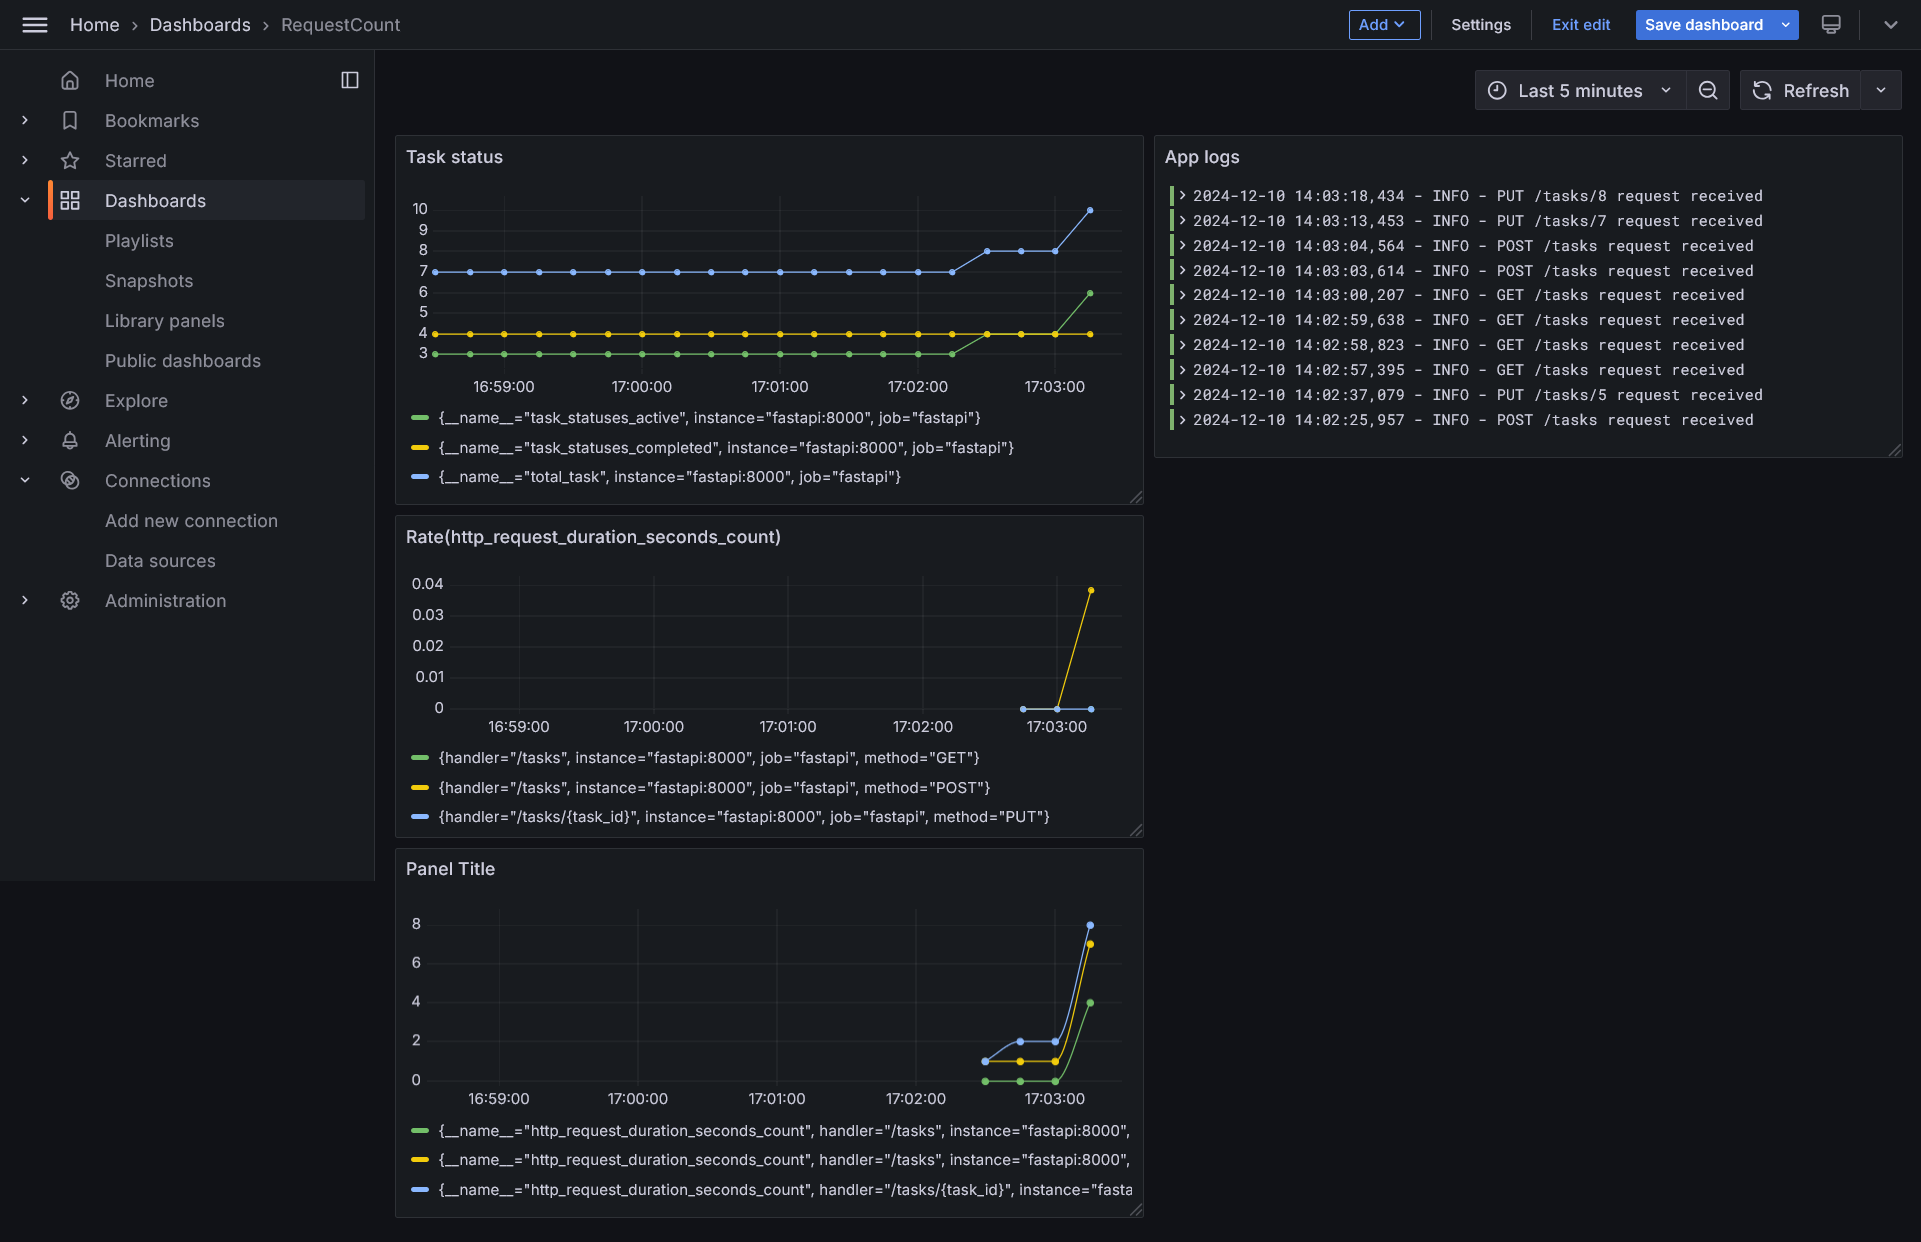
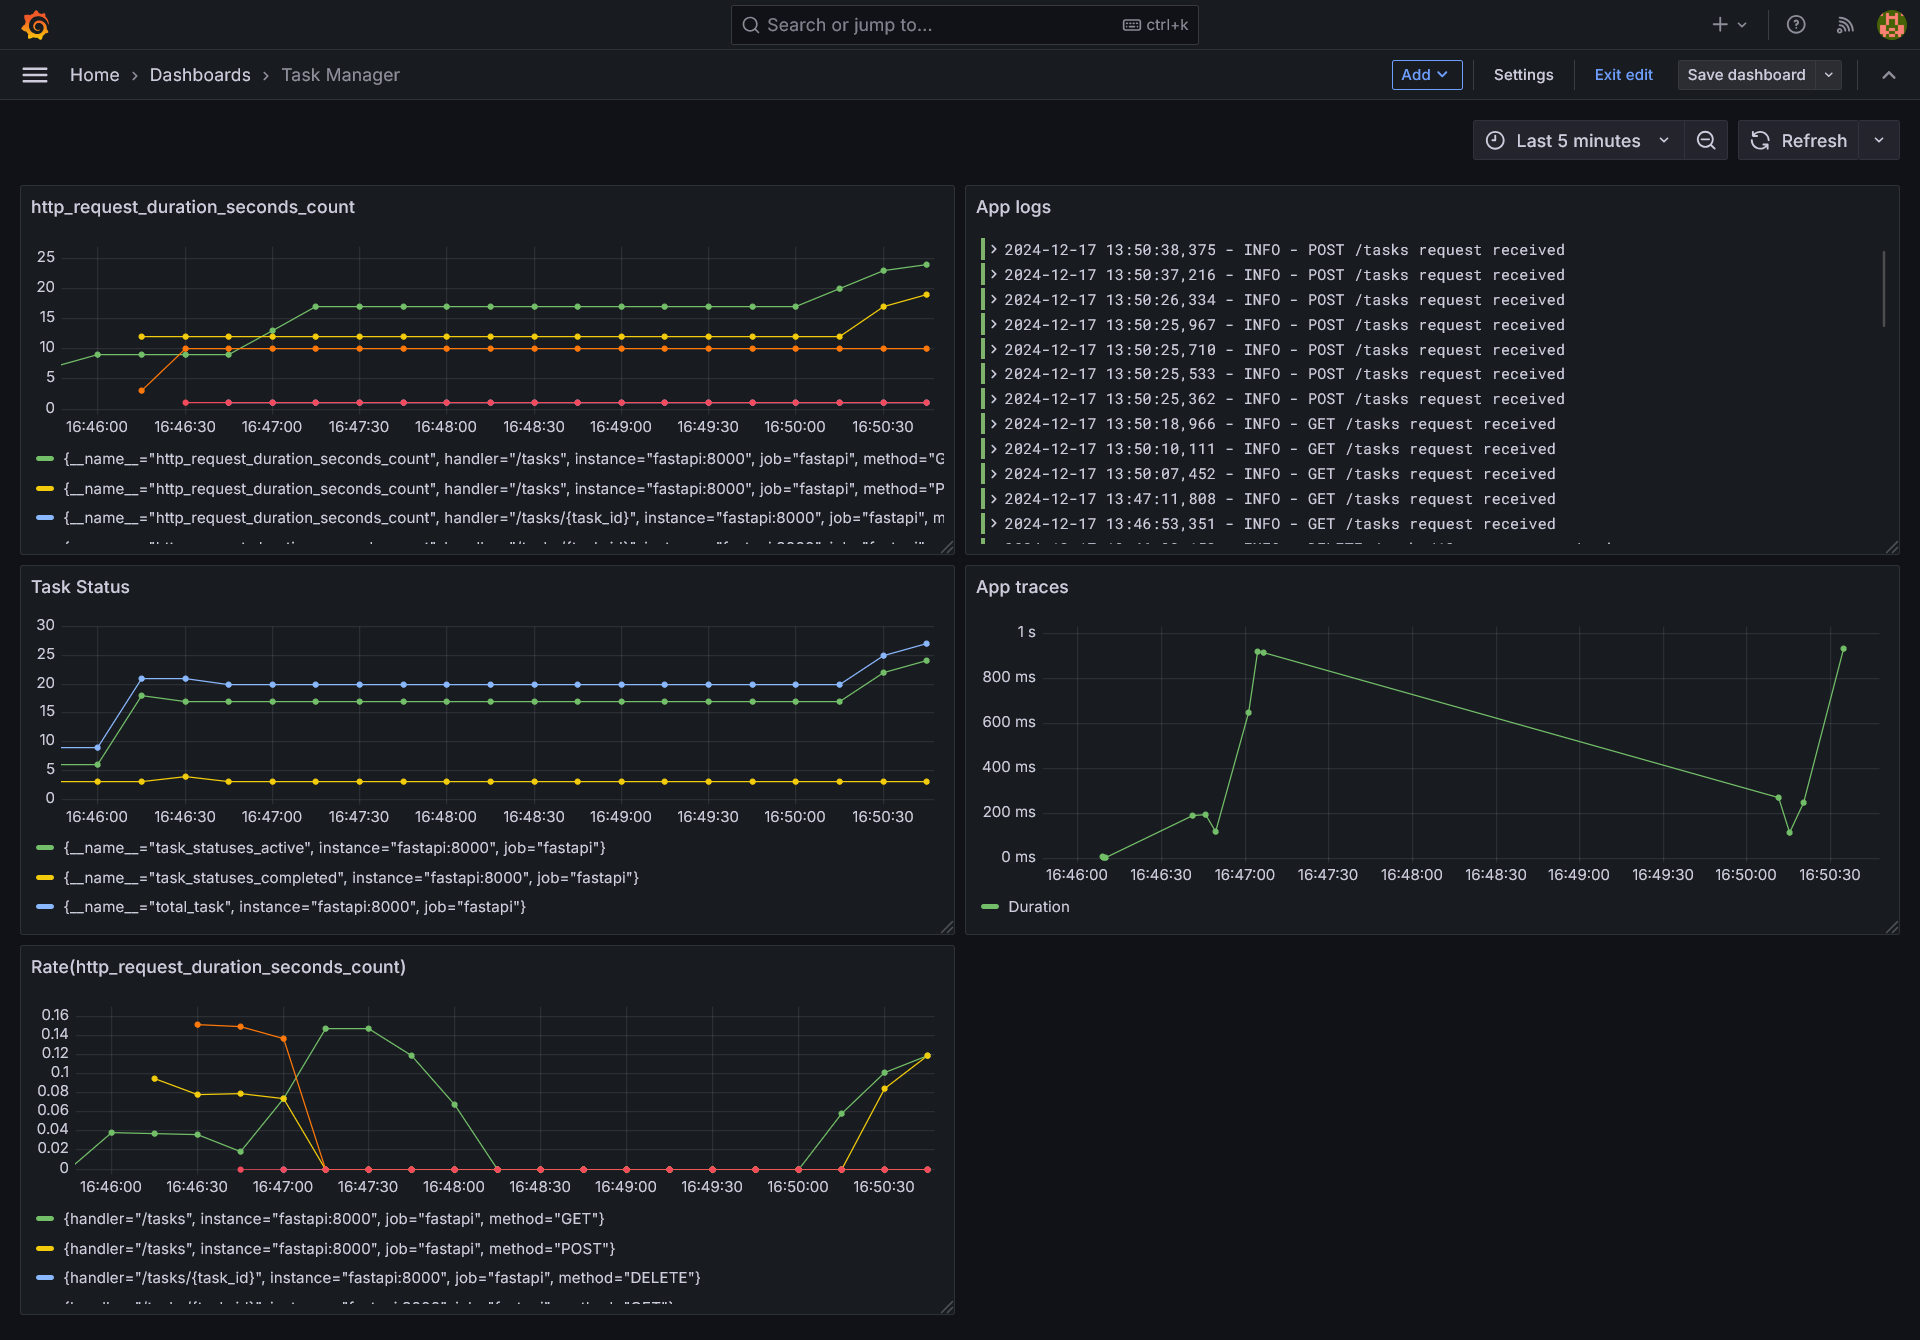
Добавлены трейсы

diff --git a/main.py b/main.py
@@ -1,7 +1,15 @@
 import logging
+import random
+import time
 
 from fastapi import FastAPI, Request
 from fastapi.openapi.docs import get_swagger_ui_html
+from opentelemetry import trace
+from opentelemetry.exporter.otlp.proto.grpc.trace_exporter import OTLPSpanExporter
+from opentelemetry.sdk.resources import Resource
+from opentelemetry.sdk.trace import TracerProvider
+from opentelemetry.sdk.trace.export import BatchSpanProcessor
+from opentelemetry.trace import get_tracer
 from prometheus_client import Gauge, generate_latest
 from prometheus_fastapi_instrumentator import Instrumentator
 from starlette.middleware.base import BaseHTTPMiddleware
@@ -17,6 +25,7 @@ from models import Task
 from sqlalchemy.orm import Session
 from fastapi import Depends, HTTPException, APIRouter
 from database import SessionLocal
+
 # Создание таблиц
 models.Base.metadata.create_all(bind=engine)
 
@@ -42,7 +51,6 @@ logging.basicConfig(
 
 logger = logging.getLogger(__name__)
 
-
 # Создаем инструментатор
 instrumentator = Instrumentator()
 # Кастомные метрики для задач
@@ -51,6 +59,14 @@ total_tasks_gauge = Gauge("total_task", "Number of total tasks")
 active_tasks_gauge = Gauge("task_statuses_active", "Number of active tasks")
 completed_tasks_gauge = Gauge("task_statuses_completed", "Number of completed tasks")
 
+# Инициализация провайдера и экспорта трейсов
+resource = Resource(attributes={"service.name": "task-manager"})
+provider = TracerProvider(resource=resource)
+processor = BatchSpanProcessor(OTLPSpanExporter(endpoint="http://tempo:4317"))
+provider.add_span_processor(processor)
+trace.set_tracer_provider(provider)
+
+tracer = get_tracer(__name__)
 
 # Функция для обновления кастомных метрик
 def update_task_metrics():
@@ -103,49 +119,73 @@ def get_db():
 # Эндпоинт для получения списка всех задач
 @router.get("", response_model=list[schemas.Task])
 def read_tasks(db: Session = Depends(get_db)):
-    tasks = crud.get_tasks(db)
-    logger.info("GET /tasks request received")
-    return tasks
+    with tracer.start_as_current_span("get_tasks") as span:
+        delay = random.uniform(0.1, 1.0)  # Случайная задержка
+        time.sleep(delay)
+        span.set_attribute("task_delay", delay)  # Атрибут спана
+        tasks = crud.get_tasks(db)
+        if random.choice([True, False]):  # Случайная ошибка
+            span.record_exception(Exception("Random error occurred"))
+            raise HTTPException(status_code=500, detail="Random error")
+        logger.info("GET /tasks request received")
+        return tasks
 
 
 # Эндпоинт для получения задачи по ID
 @router.get("/{task_id}", response_model=schemas.Task)
 def read_task(task_id: int, db: Session = Depends(get_db)):
-    logger.info(f"GET /tasks/{task_id} request received")
-    task = crud.get_task(db, task_id)
-    if task is None:
-        raise HTTPException(status_code=404, detail="Задача не найдена")
-    return task
+    with tracer.start_as_current_span("read_task") as span:
+        logger.info(f"GET /tasks/{task_id} request received")
+        span.set_attribute("task_id", task_id)
+        task = crud.get_task(db, task_id)
+        if task is None:
+            span.set_status("error")
+            span.add_event("Task not found")
+            raise HTTPException(status_code=404, detail="Task not found")
+        return task
 
 
 # Эндпоинт для создания новой задачи
 @router.post("", response_model=schemas.Task)
 async def create_task(task: schemas.TaskCreate, db: Session = Depends(get_db)):
-    logger.info("POST /tasks request received")
-    new_task = crud.create_task(db, task)
-    return new_task
+    with tracer.start_as_current_span("create_task") as span:
+        logger.info("POST /tasks request received")
+        span.set_attribute("task_name", task.title)
+        new_task = crud.create_task(db, task)
+        span.add_event("Task created successfully")
+        return new_task
 
 
 # Эндпоинт для обновления задачи
 @router.put("/{task_id}", response_model=schemas.Task)
 async def update_task(task_id: int, task: schemas.TaskCreate, db: Session = Depends(get_db)):
-    logger.info(f"PUT /tasks/{task_id} request received")
-    db_task = crud.get_task(db, task_id)
-    if db_task is None:
-        raise HTTPException(status_code=404, detail="Задача не найдена")
-    updated_task = crud.update_task(db, task_id, task)
-    return updated_task
+    with tracer.start_as_current_span("update_task") as span:
+        logger.info(f"PUT /tasks/{task_id} request received")
+        span.set_attribute("task_id", task_id)
+        db_task = crud.get_task(db, task_id)
+        if db_task is None:
+            span.set_status("error")
+            span.add_event("Task not found")
+            raise HTTPException(status_code=404, detail="Task not found")
+        updated_task = crud.update_task(db, task_id, task)
+        span.add_event("Task updated successfully")
+        return updated_task
 
 
 # Эндпоинт для удаления задачи
 @router.delete("/{task_id}")
 async def delete_task(task_id: int, db: Session = Depends(get_db)):
-    logger.info(f"DELETE /tasks/{task_id} request received")
-    db_task = crud.get_task(db, task_id)
-    if db_task is None:
-        raise HTTPException(status_code=404, detail="Задача не найдена")
-    crud.delete_task(db, task_id)
-    return {"detail": "Задача удалена"}
+    with tracer.start_as_current_span("delete_task") as span:
+        logger.info(f"DELETE /tasks/{task_id} request received")
+        span.set_attribute("task_id", task_id)
+        db_task = crud.get_task(db, task_id)
+        if db_task is None:
+            span.set_status("error")
+            span.add_event("Task not found")
+            raise HTTPException(status_code=404, detail="Task not found")
+        crud.delete_task(db, task_id)
+        span.add_event("Task deleted successfully")
+        return {"detail": "Задача удалена"}
 
 
 app.include_router(router, prefix="/tasks", tags=["tasks"])
